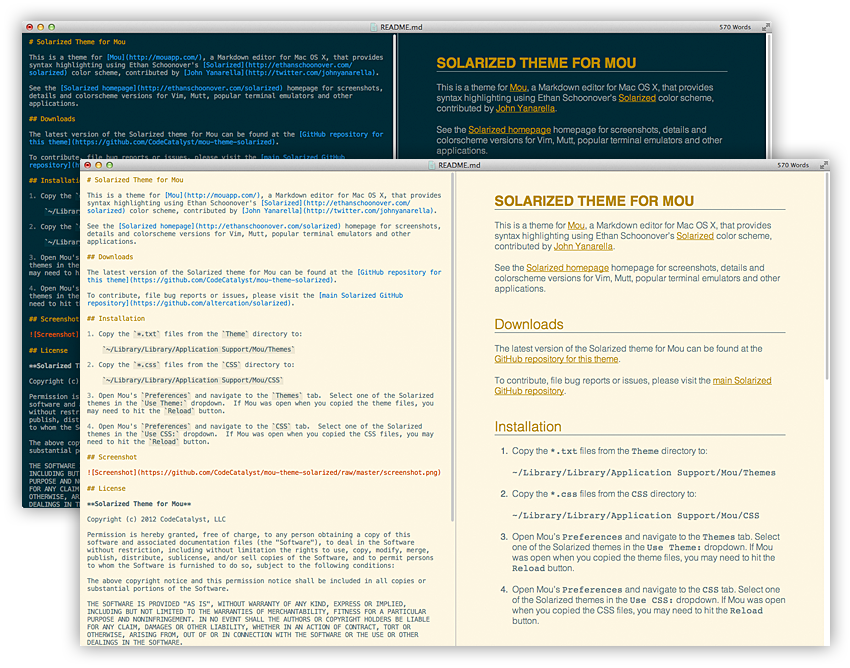
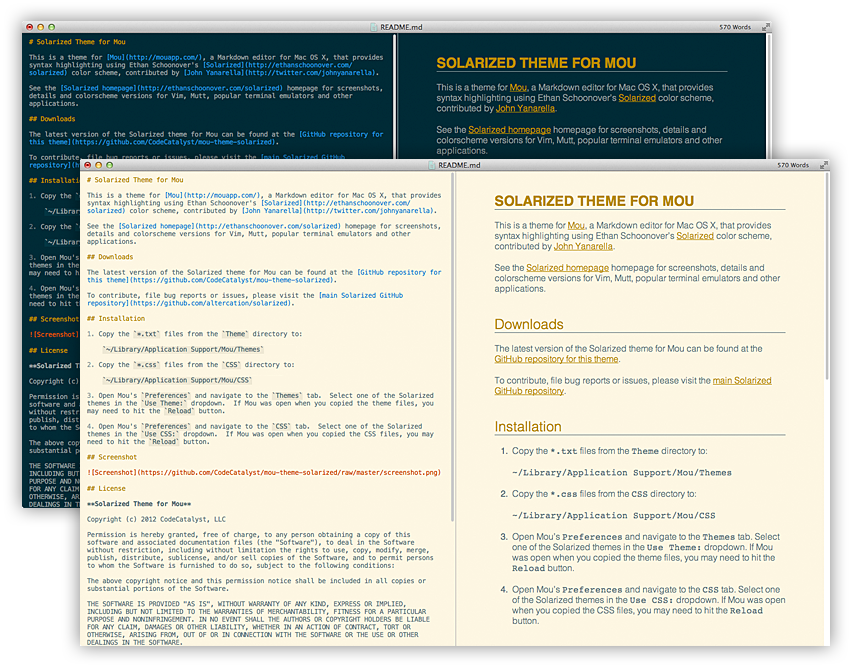
Fixed directory paths in README.md and screenshot.

Changed region(s): [[0.1529, 0.509, 0.3365, 0.5988], [0.6729, 0.6886, 0.9176, 0.7186], [0.6729, 0.7485, 0.8871, 0.7784]]

diff --git a/README.md b/README.md
@@ -14,11 +14,11 @@ To contribute, file bug reports or issues, please visit the [main Solarized GitH
 
 1. Copy the `*.txt` files from the `Theme` directory to:
 
-	`~/Library/Library/Application Support/Mou/Themes`
+	`~/Library/Application Support/Mou/Themes`
 
 2. Copy the `*.css` files from the `CSS` directory to:
 
-	`~/Library/Library/Application Support/Mou/CSS`
+	`~/Library/Application Support/Mou/CSS`
 
 3. Open Mou's `Preferences` and navigate to the `Themes` tab.  Select one of the Solarized themes in the `Use Theme:` dropdown.  If Mou was open when you copied the theme files, you may need to hit the `Reload` button.
 
